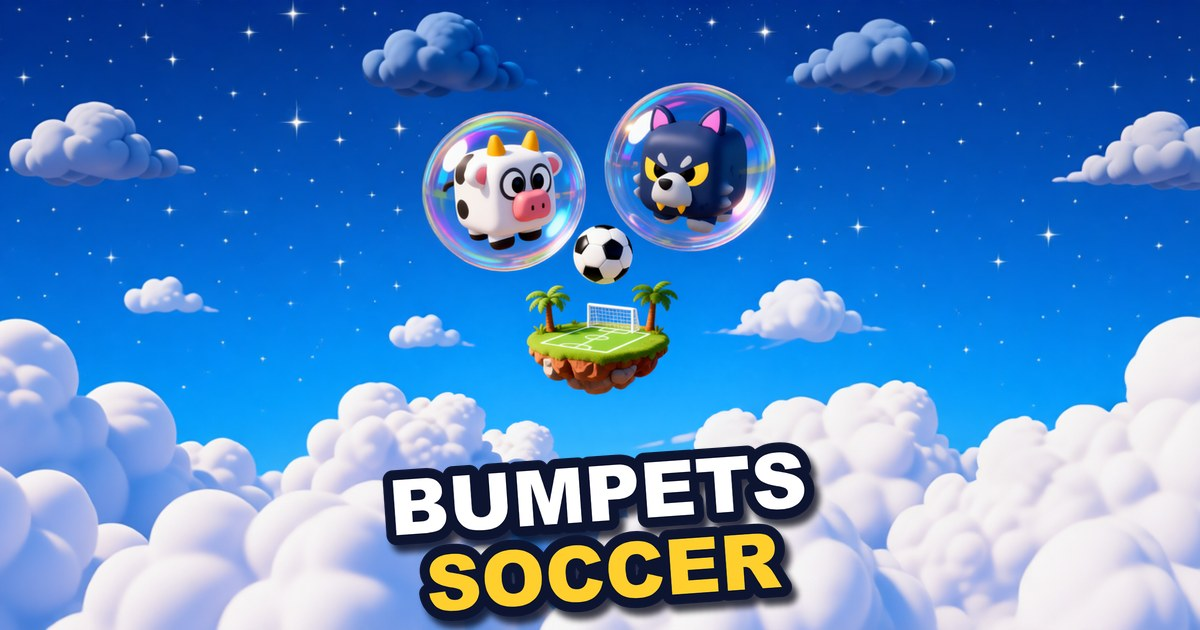
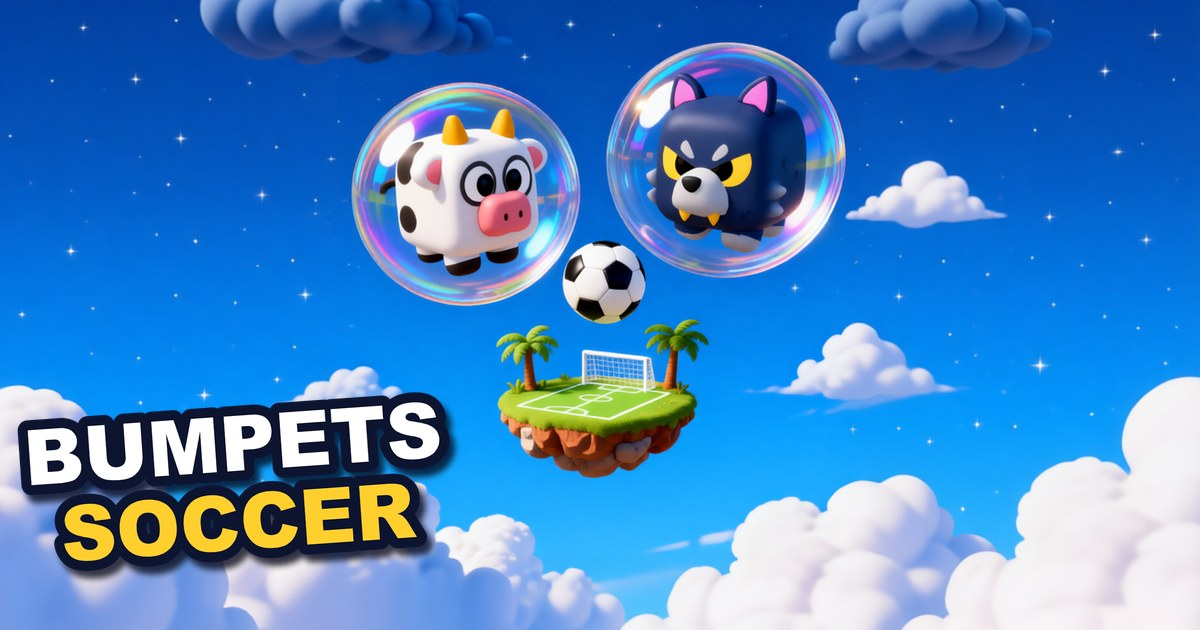
Bumpets: og da Arena e do Soccer com os bichos maiores

diff --git a/es/bumpets-soccer/index.html b/es/bumpets-soccer/index.html
@@ -25,7 +25,7 @@
 <meta property="og:title" content="Bumpets Soccer - Bartel Games">
 <meta property="og:description" content="Bumpets Soccer: animalitos dentro de burbujas empujan y patean el balón a la portería. Fútbol multijugador online gratis, 1 contra 1 o 2 contra 2, o práctica contra la computadora.">
 <meta property="og:url" content="https://bartelgames.com.br/bumpets-soccer/">
-<meta property="og:image" content="https://bartelgames.com.br/bumpets/assets/og_soccer.jpg?v=3">
+<meta property="og:image" content="https://bartelgames.com.br/bumpets/assets/og_soccer.jpg?v=4">
 <meta property="og:image:width" content="1200">
 <meta property="og:image:height" content="630">
 <meta name="twitter:card" content="summary_large_image">
@@ -218,7 +218,7 @@ canvas{display:block;width:100%;height:100%}
 <meta name="google-adsense-account" content="ca-pub-0483439498705157">
 <script async src="https://pagead2.googlesyndication.com/pagead/js/adsbygoogle.js?client=ca-pub-0483439498705157" crossorigin="anonymous"></script>
 <script>window.BB_SRV = "https://bumpets.ccbartelbusiness.workers.dev";</script>
-<!--seo--><link rel="canonical" href="https://bartelgames.com.br/es/bumpets-soccer/"><link rel="alternate" hreflang="en" href="https://bartelgames.com.br/bumpets-soccer/"><link rel="alternate" hreflang="pt" href="https://bartelgames.com.br/pt/bumpets-soccer/"><link rel="alternate" hreflang="es" href="https://bartelgames.com.br/es/bumpets-soccer/"><link rel="alternate" hreflang="x-default" href="https://bartelgames.com.br/bumpets-soccer/"><script type="application/ld+json">{"@context": "https://schema.org", "@type": "VideoGame", "name": "Bumpets Soccer", "url": "https://bartelgames.com.br/es/bumpets-soccer/", "description": "Bumpets Soccer: animalitos dentro de burbujas empujan y patean el balón a la portería. Fútbol multijugador online gratis, 1 contra 1 o 2 contra 2, o práctica contra la computadora.", "image": "https://bartelgames.com.br/bumpets/assets/og_soccer.jpg?v=3", "genre": ["Sports", "Party"], "gamePlatform": ["Web browser", "Android", "iOS", "Windows", "macOS"], "applicationCategory": "Game", "operatingSystem": "Any", "playMode": ["SinglePlayer", "MultiPlayer"], "inLanguage": ["en", "pt", "es", "fr", "de", "it"], "isAccessibleForFree": true, "offers": {"@type": "Offer", "price": "0", "priceCurrency": "USD"}, "author": {"@type": "Organization", "name": "Bartel Games", "url": "https://bartelgames.com.br/"}, "publisher": {"@type": "Organization", "name": "Bartel Games", "url": "https://bartelgames.com.br/"}}</script><!--/seo-->
+<!--seo--><link rel="canonical" href="https://bartelgames.com.br/es/bumpets-soccer/"><link rel="alternate" hreflang="en" href="https://bartelgames.com.br/bumpets-soccer/"><link rel="alternate" hreflang="pt" href="https://bartelgames.com.br/pt/bumpets-soccer/"><link rel="alternate" hreflang="es" href="https://bartelgames.com.br/es/bumpets-soccer/"><link rel="alternate" hreflang="x-default" href="https://bartelgames.com.br/bumpets-soccer/"><script type="application/ld+json">{"@context": "https://schema.org", "@type": "VideoGame", "name": "Bumpets Soccer", "url": "https://bartelgames.com.br/es/bumpets-soccer/", "description": "Bumpets Soccer: animalitos dentro de burbujas empujan y patean el balón a la portería. Fútbol multijugador online gratis, 1 contra 1 o 2 contra 2, o práctica contra la computadora.", "image": "https://bartelgames.com.br/bumpets/assets/og_soccer.jpg?v=4", "genre": ["Sports", "Party"], "gamePlatform": ["Web browser", "Android", "iOS", "Windows", "macOS"], "applicationCategory": "Game", "operatingSystem": "Any", "playMode": ["SinglePlayer", "MultiPlayer"], "inLanguage": ["en", "pt", "es", "fr", "de", "it"], "isAccessibleForFree": true, "offers": {"@type": "Offer", "price": "0", "priceCurrency": "USD"}, "author": {"@type": "Organization", "name": "Bartel Games", "url": "https://bartelgames.com.br/"}, "publisher": {"@type": "Organization", "name": "Bartel Games", "url": "https://bartelgames.com.br/"}}</script><!--/seo-->
 </head>
 <body>
 <nav id="topbar"><a class="back" href="/es/"><svg viewBox="0 0 24 24" width="22" height="22" aria-hidden="true"><path d="M15 4 7 12l8 8" fill="none" stroke="currentColor" stroke-width="3.2" stroke-linecap="round" stroke-linejoin="round"/></svg><span data-i18n="more">More games</span></a><span class="tb-r"><button class="topinfo" type="button" aria-haspopup="dialog" aria-controls="howto" onclick="var d=document.getElementById('howto');d.showModal();d.scrollTop=0;document.getElementById('howto-t').focus({preventScroll:true})"><svg viewBox="0 0 24 24" width="20" height="20" aria-hidden="true"><circle cx="12" cy="12" r="10" fill="none" stroke="currentColor" stroke-width="2.4"/><path d="M12 11v6" stroke="currentColor" stroke-width="2.6" stroke-linecap="round"/><circle cx="12" cy="7.3" r="1.6" fill="currentColor"/></svg><span class="sr" data-i18n="how">How to play</span></button><button class="toplike" id="toplike" type="button" aria-pressed="false" data-i18n-label="like" hidden><svg class="ho" viewBox="0 0 24 24" width="20" height="20" aria-hidden="true"><path d="M12 20.5s-7.5-4.6-9.2-9.4C1.6 7.6 3.9 4 7.4 4c2 0 3.6 1.1 4.6 2.7C13 5.1 14.6 4 16.6 4c3.5 0 5.8 3.6 4.6 7.1-1.7 4.8-9.2 9.4-9.2 9.4z" fill="none" stroke="currentColor" stroke-width="2.3" stroke-linejoin="round"/></svg><svg class="hf" viewBox="0 0 24 24" width="20" height="20" aria-hidden="true"><path d="M12 20.5s-7.5-4.6-9.2-9.4C1.6 7.6 3.9 4 7.4 4c2 0 3.6 1.1 4.6 2.7C13 5.1 14.6 4 16.6 4c3.5 0 5.8 3.6 4.6 7.1-1.7 4.8-9.2 9.4-9.2 9.4z" fill="#ff3b5c" stroke="#ff3b5c" stroke-width="2.3" stroke-linejoin="round"/></svg><span class="lc"></span></button><button class="topshare" type="button" data-share><svg viewBox="0 0 24 24" width="20" height="20" aria-hidden="true"><path d="M12 3v12M7 8l5-5 5 5" fill="none" stroke="currentColor" stroke-width="2.6" stroke-linecap="round" stroke-linejoin="round"/><path d="M5 12v7a2 2 0 0 0 2 2h10a2 2 0 0 0 2-2v-7" fill="none" stroke="currentColor" stroke-width="2.6" stroke-linecap="round"/></svg><span data-i18n="share">Share</span></button></span></nav>

diff --git a/pt/bumpets-soccer/index.html b/pt/bumpets-soccer/index.html
@@ -25,7 +25,7 @@
 <meta property="og:title" content="Bumpets Soccer - Bartel Games">
 <meta property="og:description" content="Bumpets Soccer: bichinhos fofos dentro de bolhas empurram e chutam a bola para o gol. Futebol multijogador online grátis, 1x1 ou 2x2, ou treino contra o computador. Roda no navegador.">
 <meta property="og:url" content="https://bartelgames.com.br/bumpets-soccer/">
-<meta property="og:image" content="https://bartelgames.com.br/bumpets/assets/og_soccer.jpg?v=3">
+<meta property="og:image" content="https://bartelgames.com.br/bumpets/assets/og_soccer.jpg?v=4">
 <meta property="og:image:width" content="1200">
 <meta property="og:image:height" content="630">
 <meta name="twitter:card" content="summary_large_image">
@@ -218,7 +218,7 @@ canvas{display:block;width:100%;height:100%}
 <meta name="google-adsense-account" content="ca-pub-0483439498705157">
 <script async src="https://pagead2.googlesyndication.com/pagead/js/adsbygoogle.js?client=ca-pub-0483439498705157" crossorigin="anonymous"></script>
 <script>window.BB_SRV = "https://bumpets.ccbartelbusiness.workers.dev";</script>
-<!--seo--><link rel="canonical" href="https://bartelgames.com.br/pt/bumpets-soccer/"><link rel="alternate" hreflang="en" href="https://bartelgames.com.br/bumpets-soccer/"><link rel="alternate" hreflang="pt" href="https://bartelgames.com.br/pt/bumpets-soccer/"><link rel="alternate" hreflang="es" href="https://bartelgames.com.br/es/bumpets-soccer/"><link rel="alternate" hreflang="x-default" href="https://bartelgames.com.br/bumpets-soccer/"><script type="application/ld+json">{"@context": "https://schema.org", "@type": "VideoGame", "name": "Bumpets Soccer", "url": "https://bartelgames.com.br/pt/bumpets-soccer/", "description": "Bumpets Soccer: bichinhos fofos dentro de bolhas empurram e chutam a bola para o gol. Futebol multijogador online grátis, 1x1 ou 2x2, ou treino contra o computador. Roda no navegador.", "image": "https://bartelgames.com.br/bumpets/assets/og_soccer.jpg?v=3", "genre": ["Sports", "Party"], "gamePlatform": ["Web browser", "Android", "iOS", "Windows", "macOS"], "applicationCategory": "Game", "operatingSystem": "Any", "playMode": ["SinglePlayer", "MultiPlayer"], "inLanguage": ["en", "pt", "es", "fr", "de", "it"], "isAccessibleForFree": true, "offers": {"@type": "Offer", "price": "0", "priceCurrency": "USD"}, "author": {"@type": "Organization", "name": "Bartel Games", "url": "https://bartelgames.com.br/"}, "publisher": {"@type": "Organization", "name": "Bartel Games", "url": "https://bartelgames.com.br/"}}</script><!--/seo-->
+<!--seo--><link rel="canonical" href="https://bartelgames.com.br/pt/bumpets-soccer/"><link rel="alternate" hreflang="en" href="https://bartelgames.com.br/bumpets-soccer/"><link rel="alternate" hreflang="pt" href="https://bartelgames.com.br/pt/bumpets-soccer/"><link rel="alternate" hreflang="es" href="https://bartelgames.com.br/es/bumpets-soccer/"><link rel="alternate" hreflang="x-default" href="https://bartelgames.com.br/bumpets-soccer/"><script type="application/ld+json">{"@context": "https://schema.org", "@type": "VideoGame", "name": "Bumpets Soccer", "url": "https://bartelgames.com.br/pt/bumpets-soccer/", "description": "Bumpets Soccer: bichinhos fofos dentro de bolhas empurram e chutam a bola para o gol. Futebol multijogador online grátis, 1x1 ou 2x2, ou treino contra o computador. Roda no navegador.", "image": "https://bartelgames.com.br/bumpets/assets/og_soccer.jpg?v=4", "genre": ["Sports", "Party"], "gamePlatform": ["Web browser", "Android", "iOS", "Windows", "macOS"], "applicationCategory": "Game", "operatingSystem": "Any", "playMode": ["SinglePlayer", "MultiPlayer"], "inLanguage": ["en", "pt", "es", "fr", "de", "it"], "isAccessibleForFree": true, "offers": {"@type": "Offer", "price": "0", "priceCurrency": "USD"}, "author": {"@type": "Organization", "name": "Bartel Games", "url": "https://bartelgames.com.br/"}, "publisher": {"@type": "Organization", "name": "Bartel Games", "url": "https://bartelgames.com.br/"}}</script><!--/seo-->
 </head>
 <body>
 <nav id="topbar"><a class="back" href="/pt/"><svg viewBox="0 0 24 24" width="22" height="22" aria-hidden="true"><path d="M15 4 7 12l8 8" fill="none" stroke="currentColor" stroke-width="3.2" stroke-linecap="round" stroke-linejoin="round"/></svg><span data-i18n="more">More games</span></a><span class="tb-r"><button class="topinfo" type="button" aria-haspopup="dialog" aria-controls="howto" onclick="var d=document.getElementById('howto');d.showModal();d.scrollTop=0;document.getElementById('howto-t').focus({preventScroll:true})"><svg viewBox="0 0 24 24" width="20" height="20" aria-hidden="true"><circle cx="12" cy="12" r="10" fill="none" stroke="currentColor" stroke-width="2.4"/><path d="M12 11v6" stroke="currentColor" stroke-width="2.6" stroke-linecap="round"/><circle cx="12" cy="7.3" r="1.6" fill="currentColor"/></svg><span class="sr" data-i18n="how">How to play</span></button><button class="toplike" id="toplike" type="button" aria-pressed="false" data-i18n-label="like" hidden><svg class="ho" viewBox="0 0 24 24" width="20" height="20" aria-hidden="true"><path d="M12 20.5s-7.5-4.6-9.2-9.4C1.6 7.6 3.9 4 7.4 4c2 0 3.6 1.1 4.6 2.7C13 5.1 14.6 4 16.6 4c3.5 0 5.8 3.6 4.6 7.1-1.7 4.8-9.2 9.4-9.2 9.4z" fill="none" stroke="currentColor" stroke-width="2.3" stroke-linejoin="round"/></svg><svg class="hf" viewBox="0 0 24 24" width="20" height="20" aria-hidden="true"><path d="M12 20.5s-7.5-4.6-9.2-9.4C1.6 7.6 3.9 4 7.4 4c2 0 3.6 1.1 4.6 2.7C13 5.1 14.6 4 16.6 4c3.5 0 5.8 3.6 4.6 7.1-1.7 4.8-9.2 9.4-9.2 9.4z" fill="#ff3b5c" stroke="#ff3b5c" stroke-width="2.3" stroke-linejoin="round"/></svg><span class="lc"></span></button><button class="topshare" type="button" data-share><svg viewBox="0 0 24 24" width="20" height="20" aria-hidden="true"><path d="M12 3v12M7 8l5-5 5 5" fill="none" stroke="currentColor" stroke-width="2.6" stroke-linecap="round" stroke-linejoin="round"/><path d="M5 12v7a2 2 0 0 0 2 2h10a2 2 0 0 0 2-2v-7" fill="none" stroke="currentColor" stroke-width="2.6" stroke-linecap="round"/></svg><span data-i18n="share">Share</span></button></span></nav>

diff --git a/pt/bumpets/index.html b/pt/bumpets/index.html
@@ -24,7 +24,7 @@
 <meta property="og:title" content="Bumpets Arena - Bartel Games">
 <meta property="og:description" content="Bumpets Arena: bichinhos fofos dentro de bolhas se empurram para fora de uma ilha flutuante. Quem ficar por último vence. Jogo multijogador online grátis de 2 a 4 jogadores, ou treino contra o computador.">
 <meta property="og:url" content="https://bartelgames.com.br/bumpets/">
-<meta property="og:image" content="https://bartelgames.com.br/bumpets/assets/og.jpg?v=7">
+<meta property="og:image" content="https://bartelgames.com.br/bumpets/assets/og.jpg?v=8">
 <meta property="og:image:width" content="1200">
 <meta property="og:image:height" content="630">
 <meta name="twitter:card" content="summary_large_image">
@@ -217,7 +217,7 @@ canvas{display:block;width:100%;height:100%}
 <meta name="google-adsense-account" content="ca-pub-0483439498705157">
 <script async src="https://pagead2.googlesyndication.com/pagead/js/adsbygoogle.js?client=ca-pub-0483439498705157" crossorigin="anonymous"></script>
 <script>window.BB_SRV = "https://bumpets.ccbartelbusiness.workers.dev";</script>
-<!--seo--><link rel="canonical" href="https://bartelgames.com.br/pt/bumpets/"><link rel="alternate" hreflang="en" href="https://bartelgames.com.br/bumpets/"><link rel="alternate" hreflang="pt" href="https://bartelgames.com.br/pt/bumpets/"><link rel="alternate" hreflang="es" href="https://bartelgames.com.br/es/bumpets/"><link rel="alternate" hreflang="x-default" href="https://bartelgames.com.br/bumpets/"><script type="application/ld+json">{"@context": "https://schema.org", "@type": "VideoGame", "name": "Bumpets Arena", "url": "https://bartelgames.com.br/pt/bumpets/", "description": "Bumpets Arena: bichinhos fofos dentro de bolhas se empurram para fora de uma ilha flutuante. Quem ficar por último vence. Jogo multijogador online grátis de 2 a 4 jogadores, ou treino contra o computador.", "image": "https://bartelgames.com.br/bumpets/assets/og.jpg?v=7", "genre": ["Party", "Action"], "gamePlatform": ["Web browser", "Android", "iOS", "Windows", "macOS"], "applicationCategory": "Game", "operatingSystem": "Any", "playMode": ["SinglePlayer", "MultiPlayer"], "inLanguage": ["en", "pt", "es", "fr", "de", "it"], "isAccessibleForFree": true, "offers": {"@type": "Offer", "price": "0", "priceCurrency": "USD"}, "author": {"@type": "Organization", "name": "Bartel Games", "url": "https://bartelgames.com.br/"}, "publisher": {"@type": "Organization", "name": "Bartel Games", "url": "https://bartelgames.com.br/"}}</script><!--/seo-->
+<!--seo--><link rel="canonical" href="https://bartelgames.com.br/pt/bumpets/"><link rel="alternate" hreflang="en" href="https://bartelgames.com.br/bumpets/"><link rel="alternate" hreflang="pt" href="https://bartelgames.com.br/pt/bumpets/"><link rel="alternate" hreflang="es" href="https://bartelgames.com.br/es/bumpets/"><link rel="alternate" hreflang="x-default" href="https://bartelgames.com.br/bumpets/"><script type="application/ld+json">{"@context": "https://schema.org", "@type": "VideoGame", "name": "Bumpets Arena", "url": "https://bartelgames.com.br/pt/bumpets/", "description": "Bumpets Arena: bichinhos fofos dentro de bolhas se empurram para fora de uma ilha flutuante. Quem ficar por último vence. Jogo multijogador online grátis de 2 a 4 jogadores, ou treino contra o computador.", "image": "https://bartelgames.com.br/bumpets/assets/og.jpg?v=8", "genre": ["Party", "Action"], "gamePlatform": ["Web browser", "Android", "iOS", "Windows", "macOS"], "applicationCategory": "Game", "operatingSystem": "Any", "playMode": ["SinglePlayer", "MultiPlayer"], "inLanguage": ["en", "pt", "es", "fr", "de", "it"], "isAccessibleForFree": true, "offers": {"@type": "Offer", "price": "0", "priceCurrency": "USD"}, "author": {"@type": "Organization", "name": "Bartel Games", "url": "https://bartelgames.com.br/"}, "publisher": {"@type": "Organization", "name": "Bartel Games", "url": "https://bartelgames.com.br/"}}</script><!--/seo-->
 </head>
 <body>
 <nav id="topbar"><a class="back" href="/pt/"><svg viewBox="0 0 24 24" width="22" height="22" aria-hidden="true"><path d="M15 4 7 12l8 8" fill="none" stroke="currentColor" stroke-width="3.2" stroke-linecap="round" stroke-linejoin="round"/></svg><span data-i18n="more">More games</span></a><span class="tb-r"><button class="topinfo" type="button" aria-haspopup="dialog" aria-controls="howto" onclick="var d=document.getElementById('howto');d.showModal();d.scrollTop=0;document.getElementById('howto-t').focus({preventScroll:true})"><svg viewBox="0 0 24 24" width="20" height="20" aria-hidden="true"><circle cx="12" cy="12" r="10" fill="none" stroke="currentColor" stroke-width="2.4"/><path d="M12 11v6" stroke="currentColor" stroke-width="2.6" stroke-linecap="round"/><circle cx="12" cy="7.3" r="1.6" fill="currentColor"/></svg><span class="sr" data-i18n="how">How to play</span></button><button class="toplike" id="toplike" type="button" aria-pressed="false" data-i18n-label="like" hidden><svg class="ho" viewBox="0 0 24 24" width="20" height="20" aria-hidden="true"><path d="M12 20.5s-7.5-4.6-9.2-9.4C1.6 7.6 3.9 4 7.4 4c2 0 3.6 1.1 4.6 2.7C13 5.1 14.6 4 16.6 4c3.5 0 5.8 3.6 4.6 7.1-1.7 4.8-9.2 9.4-9.2 9.4z" fill="none" stroke="currentColor" stroke-width="2.3" stroke-linejoin="round"/></svg><svg class="hf" viewBox="0 0 24 24" width="20" height="20" aria-hidden="true"><path d="M12 20.5s-7.5-4.6-9.2-9.4C1.6 7.6 3.9 4 7.4 4c2 0 3.6 1.1 4.6 2.7C13 5.1 14.6 4 16.6 4c3.5 0 5.8 3.6 4.6 7.1-1.7 4.8-9.2 9.4-9.2 9.4z" fill="#ff3b5c" stroke="#ff3b5c" stroke-width="2.3" stroke-linejoin="round"/></svg><span class="lc"></span></button><button class="topshare" type="button" data-share><svg viewBox="0 0 24 24" width="20" height="20" aria-hidden="true"><path d="M12 3v12M7 8l5-5 5 5" fill="none" stroke="currentColor" stroke-width="2.6" stroke-linecap="round" stroke-linejoin="round"/><path d="M5 12v7a2 2 0 0 0 2 2h10a2 2 0 0 0 2-2v-7" fill="none" stroke="currentColor" stroke-width="2.6" stroke-linecap="round"/></svg><span data-i18n="share">Share</span></button></span></nav>

diff --git a/es/bumpets/index.html b/es/bumpets/index.html
@@ -24,7 +24,7 @@
 <meta property="og:title" content="Bumpets Arena - Bartel Games">
 <meta property="og:description" content="Bumpets Arena: animalitos dentro de burbujas se empujan fuera de una isla flotante. El último en pie gana. Juego multijugador online gratis de 2 a 4 jugadores, o práctica contra la computadora.">
 <meta property="og:url" content="https://bartelgames.com.br/bumpets/">
-<meta property="og:image" content="https://bartelgames.com.br/bumpets/assets/og.jpg?v=7">
+<meta property="og:image" content="https://bartelgames.com.br/bumpets/assets/og.jpg?v=8">
 <meta property="og:image:width" content="1200">
 <meta property="og:image:height" content="630">
 <meta name="twitter:card" content="summary_large_image">
@@ -217,7 +217,7 @@ canvas{display:block;width:100%;height:100%}
 <meta name="google-adsense-account" content="ca-pub-0483439498705157">
 <script async src="https://pagead2.googlesyndication.com/pagead/js/adsbygoogle.js?client=ca-pub-0483439498705157" crossorigin="anonymous"></script>
 <script>window.BB_SRV = "https://bumpets.ccbartelbusiness.workers.dev";</script>
-<!--seo--><link rel="canonical" href="https://bartelgames.com.br/es/bumpets/"><link rel="alternate" hreflang="en" href="https://bartelgames.com.br/bumpets/"><link rel="alternate" hreflang="pt" href="https://bartelgames.com.br/pt/bumpets/"><link rel="alternate" hreflang="es" href="https://bartelgames.com.br/es/bumpets/"><link rel="alternate" hreflang="x-default" href="https://bartelgames.com.br/bumpets/"><script type="application/ld+json">{"@context": "https://schema.org", "@type": "VideoGame", "name": "Bumpets Arena", "url": "https://bartelgames.com.br/es/bumpets/", "description": "Bumpets Arena: animalitos dentro de burbujas se empujan fuera de una isla flotante. El último en pie gana. Juego multijugador online gratis de 2 a 4 jugadores, o práctica contra la computadora.", "image": "https://bartelgames.com.br/bumpets/assets/og.jpg?v=7", "genre": ["Party", "Action"], "gamePlatform": ["Web browser", "Android", "iOS", "Windows", "macOS"], "applicationCategory": "Game", "operatingSystem": "Any", "playMode": ["SinglePlayer", "MultiPlayer"], "inLanguage": ["en", "pt", "es", "fr", "de", "it"], "isAccessibleForFree": true, "offers": {"@type": "Offer", "price": "0", "priceCurrency": "USD"}, "author": {"@type": "Organization", "name": "Bartel Games", "url": "https://bartelgames.com.br/"}, "publisher": {"@type": "Organization", "name": "Bartel Games", "url": "https://bartelgames.com.br/"}}</script><!--/seo-->
+<!--seo--><link rel="canonical" href="https://bartelgames.com.br/es/bumpets/"><link rel="alternate" hreflang="en" href="https://bartelgames.com.br/bumpets/"><link rel="alternate" hreflang="pt" href="https://bartelgames.com.br/pt/bumpets/"><link rel="alternate" hreflang="es" href="https://bartelgames.com.br/es/bumpets/"><link rel="alternate" hreflang="x-default" href="https://bartelgames.com.br/bumpets/"><script type="application/ld+json">{"@context": "https://schema.org", "@type": "VideoGame", "name": "Bumpets Arena", "url": "https://bartelgames.com.br/es/bumpets/", "description": "Bumpets Arena: animalitos dentro de burbujas se empujan fuera de una isla flotante. El último en pie gana. Juego multijugador online gratis de 2 a 4 jugadores, o práctica contra la computadora.", "image": "https://bartelgames.com.br/bumpets/assets/og.jpg?v=8", "genre": ["Party", "Action"], "gamePlatform": ["Web browser", "Android", "iOS", "Windows", "macOS"], "applicationCategory": "Game", "operatingSystem": "Any", "playMode": ["SinglePlayer", "MultiPlayer"], "inLanguage": ["en", "pt", "es", "fr", "de", "it"], "isAccessibleForFree": true, "offers": {"@type": "Offer", "price": "0", "priceCurrency": "USD"}, "author": {"@type": "Organization", "name": "Bartel Games", "url": "https://bartelgames.com.br/"}, "publisher": {"@type": "Organization", "name": "Bartel Games", "url": "https://bartelgames.com.br/"}}</script><!--/seo-->
 </head>
 <body>
 <nav id="topbar"><a class="back" href="/es/"><svg viewBox="0 0 24 24" width="22" height="22" aria-hidden="true"><path d="M15 4 7 12l8 8" fill="none" stroke="currentColor" stroke-width="3.2" stroke-linecap="round" stroke-linejoin="round"/></svg><span data-i18n="more">More games</span></a><span class="tb-r"><button class="topinfo" type="button" aria-haspopup="dialog" aria-controls="howto" onclick="var d=document.getElementById('howto');d.showModal();d.scrollTop=0;document.getElementById('howto-t').focus({preventScroll:true})"><svg viewBox="0 0 24 24" width="20" height="20" aria-hidden="true"><circle cx="12" cy="12" r="10" fill="none" stroke="currentColor" stroke-width="2.4"/><path d="M12 11v6" stroke="currentColor" stroke-width="2.6" stroke-linecap="round"/><circle cx="12" cy="7.3" r="1.6" fill="currentColor"/></svg><span class="sr" data-i18n="how">How to play</span></button><button class="toplike" id="toplike" type="button" aria-pressed="false" data-i18n-label="like" hidden><svg class="ho" viewBox="0 0 24 24" width="20" height="20" aria-hidden="true"><path d="M12 20.5s-7.5-4.6-9.2-9.4C1.6 7.6 3.9 4 7.4 4c2 0 3.6 1.1 4.6 2.7C13 5.1 14.6 4 16.6 4c3.5 0 5.8 3.6 4.6 7.1-1.7 4.8-9.2 9.4-9.2 9.4z" fill="none" stroke="currentColor" stroke-width="2.3" stroke-linejoin="round"/></svg><svg class="hf" viewBox="0 0 24 24" width="20" height="20" aria-hidden="true"><path d="M12 20.5s-7.5-4.6-9.2-9.4C1.6 7.6 3.9 4 7.4 4c2 0 3.6 1.1 4.6 2.7C13 5.1 14.6 4 16.6 4c3.5 0 5.8 3.6 4.6 7.1-1.7 4.8-9.2 9.4-9.2 9.4z" fill="#ff3b5c" stroke="#ff3b5c" stroke-width="2.3" stroke-linejoin="round"/></svg><span class="lc"></span></button><button class="topshare" type="button" data-share><svg viewBox="0 0 24 24" width="20" height="20" aria-hidden="true"><path d="M12 3v12M7 8l5-5 5 5" fill="none" stroke="currentColor" stroke-width="2.6" stroke-linecap="round" stroke-linejoin="round"/><path d="M5 12v7a2 2 0 0 0 2 2h10a2 2 0 0 0 2-2v-7" fill="none" stroke="currentColor" stroke-width="2.6" stroke-linecap="round"/></svg><span data-i18n="share">Share</span></button></span></nav>

diff --git a/bumpets-soccer/index.html b/bumpets-soccer/index.html
@@ -24,7 +24,7 @@
 <meta property="og:title" content="Bumpets Soccer">
 <meta property="og:description" content="Cute animals in bubbles play soccer! Push the ball, DASH to kick and score. Play online with friends or with someone random!">
 <meta property="og:url" content="https://bartelgames.com.br/bumpets-soccer/">
-<meta property="og:image" content="https://bartelgames.com.br/bumpets/assets/og_soccer.jpg?v=3">
+<meta property="og:image" content="https://bartelgames.com.br/bumpets/assets/og_soccer.jpg?v=4">
 <meta property="og:image:width" content="1200">
 <meta property="og:image:height" content="630">
 <meta name="twitter:card" content="summary_large_image">
@@ -217,7 +217,7 @@ canvas{display:block;width:100%;height:100%}
 <meta name="google-adsense-account" content="ca-pub-0483439498705157">
 <script async src="https://pagead2.googlesyndication.com/pagead/js/adsbygoogle.js?client=ca-pub-0483439498705157" crossorigin="anonymous"></script>
 <script>window.BB_SRV = "https://bumpets.ccbartelbusiness.workers.dev";</script>
-<!--seo--><link rel="canonical" href="https://bartelgames.com.br/bumpets-soccer/"><link rel="alternate" hreflang="en" href="https://bartelgames.com.br/bumpets-soccer/"><link rel="alternate" hreflang="pt" href="https://bartelgames.com.br/pt/bumpets-soccer/"><link rel="alternate" hreflang="es" href="https://bartelgames.com.br/es/bumpets-soccer/"><link rel="alternate" hreflang="x-default" href="https://bartelgames.com.br/bumpets-soccer/"><script type="application/ld+json">{"@context": "https://schema.org", "@type": "VideoGame", "name": "Bumpets Soccer", "url": "https://bartelgames.com.br/bumpets-soccer/", "description": "Bumpets Soccer: cute animals in bubbles push and dash-kick the ball into the goal. Free online multiplayer soccer, 1v1 or 2v2, or practice against the computer. Plays in your browser.", "image": "https://bartelgames.com.br/bumpets/assets/og_soccer.jpg?v=3", "genre": ["Sports", "Party"], "gamePlatform": ["Web browser", "Android", "iOS", "Windows", "macOS"], "applicationCategory": "Game", "operatingSystem": "Any", "playMode": ["SinglePlayer", "MultiPlayer"], "inLanguage": ["en", "pt", "es", "fr", "de", "it"], "isAccessibleForFree": true, "offers": {"@type": "Offer", "price": "0", "priceCurrency": "USD"}, "author": {"@type": "Organization", "name": "Bartel Games", "url": "https://bartelgames.com.br/"}, "publisher": {"@type": "Organization", "name": "Bartel Games", "url": "https://bartelgames.com.br/"}}</script><!--/seo-->
+<!--seo--><link rel="canonical" href="https://bartelgames.com.br/bumpets-soccer/"><link rel="alternate" hreflang="en" href="https://bartelgames.com.br/bumpets-soccer/"><link rel="alternate" hreflang="pt" href="https://bartelgames.com.br/pt/bumpets-soccer/"><link rel="alternate" hreflang="es" href="https://bartelgames.com.br/es/bumpets-soccer/"><link rel="alternate" hreflang="x-default" href="https://bartelgames.com.br/bumpets-soccer/"><script type="application/ld+json">{"@context": "https://schema.org", "@type": "VideoGame", "name": "Bumpets Soccer", "url": "https://bartelgames.com.br/bumpets-soccer/", "description": "Bumpets Soccer: cute animals in bubbles push and dash-kick the ball into the goal. Free online multiplayer soccer, 1v1 or 2v2, or practice against the computer. Plays in your browser.", "image": "https://bartelgames.com.br/bumpets/assets/og_soccer.jpg?v=4", "genre": ["Sports", "Party"], "gamePlatform": ["Web browser", "Android", "iOS", "Windows", "macOS"], "applicationCategory": "Game", "operatingSystem": "Any", "playMode": ["SinglePlayer", "MultiPlayer"], "inLanguage": ["en", "pt", "es", "fr", "de", "it"], "isAccessibleForFree": true, "offers": {"@type": "Offer", "price": "0", "priceCurrency": "USD"}, "author": {"@type": "Organization", "name": "Bartel Games", "url": "https://bartelgames.com.br/"}, "publisher": {"@type": "Organization", "name": "Bartel Games", "url": "https://bartelgames.com.br/"}}</script><!--/seo-->
 </head>
 <body>
 <nav id="topbar"><a class="back" href="../"><svg viewBox="0 0 24 24" width="22" height="22" aria-hidden="true"><path d="M15 4 7 12l8 8" fill="none" stroke="currentColor" stroke-width="3.2" stroke-linecap="round" stroke-linejoin="round"/></svg><span data-i18n="more">More games</span></a><span class="tb-r"><button class="topinfo" type="button" aria-haspopup="dialog" aria-controls="howto" onclick="var d=document.getElementById('howto');d.showModal();d.scrollTop=0;document.getElementById('howto-t').focus({preventScroll:true})"><svg viewBox="0 0 24 24" width="20" height="20" aria-hidden="true"><circle cx="12" cy="12" r="10" fill="none" stroke="currentColor" stroke-width="2.4"/><path d="M12 11v6" stroke="currentColor" stroke-width="2.6" stroke-linecap="round"/><circle cx="12" cy="7.3" r="1.6" fill="currentColor"/></svg><span class="sr" data-i18n="how">How to play</span></button><button class="toplike" id="toplike" type="button" aria-pressed="false" data-i18n-label="like" hidden><svg class="ho" viewBox="0 0 24 24" width="20" height="20" aria-hidden="true"><path d="M12 20.5s-7.5-4.6-9.2-9.4C1.6 7.6 3.9 4 7.4 4c2 0 3.6 1.1 4.6 2.7C13 5.1 14.6 4 16.6 4c3.5 0 5.8 3.6 4.6 7.1-1.7 4.8-9.2 9.4-9.2 9.4z" fill="none" stroke="currentColor" stroke-width="2.3" stroke-linejoin="round"/></svg><svg class="hf" viewBox="0 0 24 24" width="20" height="20" aria-hidden="true"><path d="M12 20.5s-7.5-4.6-9.2-9.4C1.6 7.6 3.9 4 7.4 4c2 0 3.6 1.1 4.6 2.7C13 5.1 14.6 4 16.6 4c3.5 0 5.8 3.6 4.6 7.1-1.7 4.8-9.2 9.4-9.2 9.4z" fill="#ff3b5c" stroke="#ff3b5c" stroke-width="2.3" stroke-linejoin="round"/></svg><span class="lc"></span></button><button class="topshare" type="button" data-share><svg viewBox="0 0 24 24" width="20" height="20" aria-hidden="true"><path d="M12 3v12M7 8l5-5 5 5" fill="none" stroke="currentColor" stroke-width="2.6" stroke-linecap="round" stroke-linejoin="round"/><path d="M5 12v7a2 2 0 0 0 2 2h10a2 2 0 0 0 2-2v-7" fill="none" stroke="currentColor" stroke-width="2.6" stroke-linecap="round"/></svg><span data-i18n="share">Share</span></button></span></nav>

diff --git a/bumpets/index.html b/bumpets/index.html
@@ -23,7 +23,7 @@
 <meta property="og:title" content="Bumpets Arena">
 <meta property="og:description" content="Cute animals in bubbles bump each other off a floating island. Play online with friends or with someone random!">
 <meta property="og:url" content="https://bartelgames.com.br/bumpets/">
-<meta property="og:image" content="https://bartelgames.com.br/bumpets/assets/og.jpg?v=7">
+<meta property="og:image" content="https://bartelgames.com.br/bumpets/assets/og.jpg?v=8">
 <meta property="og:image:width" content="1200">
 <meta property="og:image:height" content="630">
 <meta name="twitter:card" content="summary_large_image">
@@ -216,7 +216,7 @@ canvas{display:block;width:100%;height:100%}
 <meta name="google-adsense-account" content="ca-pub-0483439498705157">
 <script async src="https://pagead2.googlesyndication.com/pagead/js/adsbygoogle.js?client=ca-pub-0483439498705157" crossorigin="anonymous"></script>
 <script>window.BB_SRV = "https://bumpets.ccbartelbusiness.workers.dev";</script>
-<!--seo--><link rel="canonical" href="https://bartelgames.com.br/bumpets/"><link rel="alternate" hreflang="en" href="https://bartelgames.com.br/bumpets/"><link rel="alternate" hreflang="pt" href="https://bartelgames.com.br/pt/bumpets/"><link rel="alternate" hreflang="es" href="https://bartelgames.com.br/es/bumpets/"><link rel="alternate" hreflang="x-default" href="https://bartelgames.com.br/bumpets/"><script type="application/ld+json">{"@context": "https://schema.org", "@type": "VideoGame", "name": "Bumpets Arena", "url": "https://bartelgames.com.br/bumpets/", "description": "Bumpets Arena: cute animals in bubbles bump each other off a floating island. Last one standing wins. Free online multiplayer party game for 2 to 4 players, or practice against the computer. Plays in your browser.", "image": "https://bartelgames.com.br/bumpets/assets/og.jpg?v=7", "genre": ["Party", "Action"], "gamePlatform": ["Web browser", "Android", "iOS", "Windows", "macOS"], "applicationCategory": "Game", "operatingSystem": "Any", "playMode": ["SinglePlayer", "MultiPlayer"], "inLanguage": ["en", "pt", "es", "fr", "de", "it"], "isAccessibleForFree": true, "offers": {"@type": "Offer", "price": "0", "priceCurrency": "USD"}, "author": {"@type": "Organization", "name": "Bartel Games", "url": "https://bartelgames.com.br/"}, "publisher": {"@type": "Organization", "name": "Bartel Games", "url": "https://bartelgames.com.br/"}}</script><!--/seo-->
+<!--seo--><link rel="canonical" href="https://bartelgames.com.br/bumpets/"><link rel="alternate" hreflang="en" href="https://bartelgames.com.br/bumpets/"><link rel="alternate" hreflang="pt" href="https://bartelgames.com.br/pt/bumpets/"><link rel="alternate" hreflang="es" href="https://bartelgames.com.br/es/bumpets/"><link rel="alternate" hreflang="x-default" href="https://bartelgames.com.br/bumpets/"><script type="application/ld+json">{"@context": "https://schema.org", "@type": "VideoGame", "name": "Bumpets Arena", "url": "https://bartelgames.com.br/bumpets/", "description": "Bumpets Arena: cute animals in bubbles bump each other off a floating island. Last one standing wins. Free online multiplayer party game for 2 to 4 players, or practice against the computer. Plays in your browser.", "image": "https://bartelgames.com.br/bumpets/assets/og.jpg?v=8", "genre": ["Party", "Action"], "gamePlatform": ["Web browser", "Android", "iOS", "Windows", "macOS"], "applicationCategory": "Game", "operatingSystem": "Any", "playMode": ["SinglePlayer", "MultiPlayer"], "inLanguage": ["en", "pt", "es", "fr", "de", "it"], "isAccessibleForFree": true, "offers": {"@type": "Offer", "price": "0", "priceCurrency": "USD"}, "author": {"@type": "Organization", "name": "Bartel Games", "url": "https://bartelgames.com.br/"}, "publisher": {"@type": "Organization", "name": "Bartel Games", "url": "https://bartelgames.com.br/"}}</script><!--/seo-->
 </head>
 <body>
 <nav id="topbar"><a class="back" href="../"><svg viewBox="0 0 24 24" width="22" height="22" aria-hidden="true"><path d="M15 4 7 12l8 8" fill="none" stroke="currentColor" stroke-width="3.2" stroke-linecap="round" stroke-linejoin="round"/></svg><span data-i18n="more">More games</span></a><span class="tb-r"><button class="topinfo" type="button" aria-haspopup="dialog" aria-controls="howto" onclick="var d=document.getElementById('howto');d.showModal();d.scrollTop=0;document.getElementById('howto-t').focus({preventScroll:true})"><svg viewBox="0 0 24 24" width="20" height="20" aria-hidden="true"><circle cx="12" cy="12" r="10" fill="none" stroke="currentColor" stroke-width="2.4"/><path d="M12 11v6" stroke="currentColor" stroke-width="2.6" stroke-linecap="round"/><circle cx="12" cy="7.3" r="1.6" fill="currentColor"/></svg><span class="sr" data-i18n="how">How to play</span></button><button class="toplike" id="toplike" type="button" aria-pressed="false" data-i18n-label="like" hidden><svg class="ho" viewBox="0 0 24 24" width="20" height="20" aria-hidden="true"><path d="M12 20.5s-7.5-4.6-9.2-9.4C1.6 7.6 3.9 4 7.4 4c2 0 3.6 1.1 4.6 2.7C13 5.1 14.6 4 16.6 4c3.5 0 5.8 3.6 4.6 7.1-1.7 4.8-9.2 9.4-9.2 9.4z" fill="none" stroke="currentColor" stroke-width="2.3" stroke-linejoin="round"/></svg><svg class="hf" viewBox="0 0 24 24" width="20" height="20" aria-hidden="true"><path d="M12 20.5s-7.5-4.6-9.2-9.4C1.6 7.6 3.9 4 7.4 4c2 0 3.6 1.1 4.6 2.7C13 5.1 14.6 4 16.6 4c3.5 0 5.8 3.6 4.6 7.1-1.7 4.8-9.2 9.4-9.2 9.4z" fill="#ff3b5c" stroke="#ff3b5c" stroke-width="2.3" stroke-linejoin="round"/></svg><span class="lc"></span></button><button class="topshare" type="button" data-share><svg viewBox="0 0 24 24" width="20" height="20" aria-hidden="true"><path d="M12 3v12M7 8l5-5 5 5" fill="none" stroke="currentColor" stroke-width="2.6" stroke-linecap="round" stroke-linejoin="round"/><path d="M5 12v7a2 2 0 0 0 2 2h10a2 2 0 0 0 2-2v-7" fill="none" stroke="currentColor" stroke-width="2.6" stroke-linecap="round"/></svg><span data-i18n="share">Share</span></button></span></nav>
